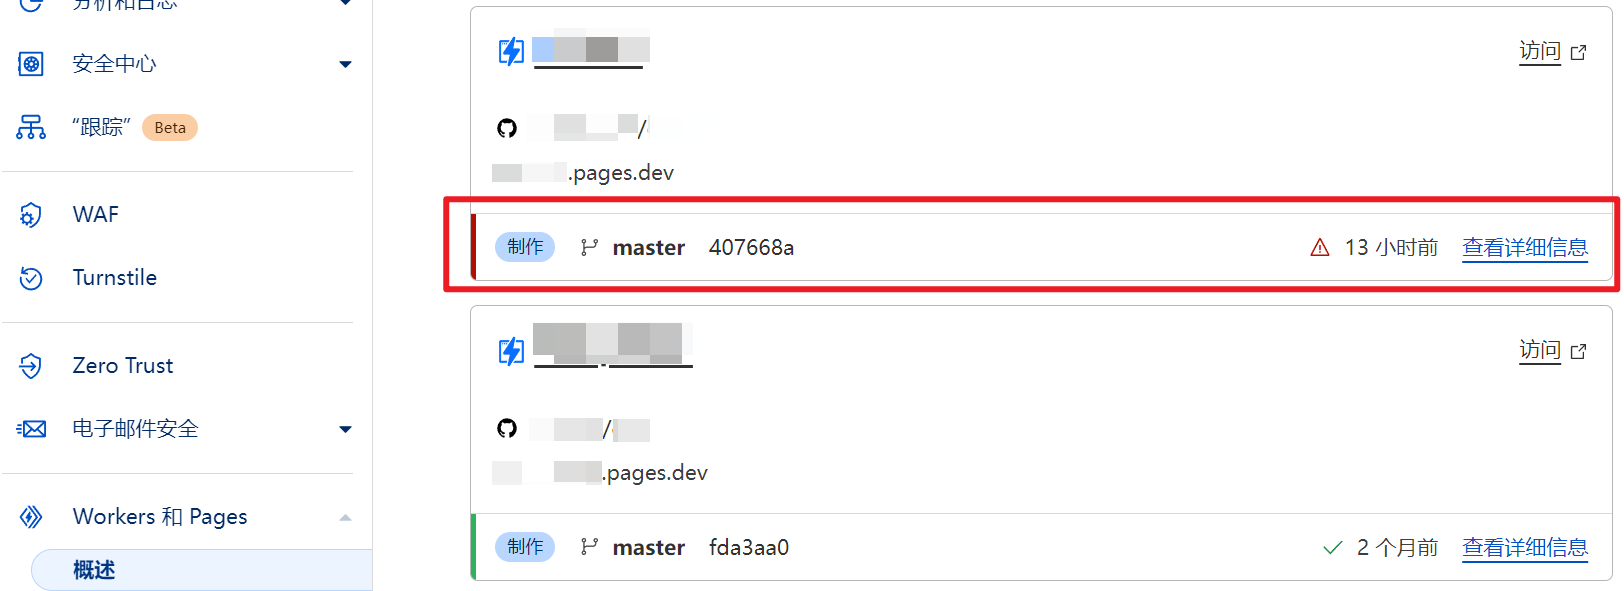
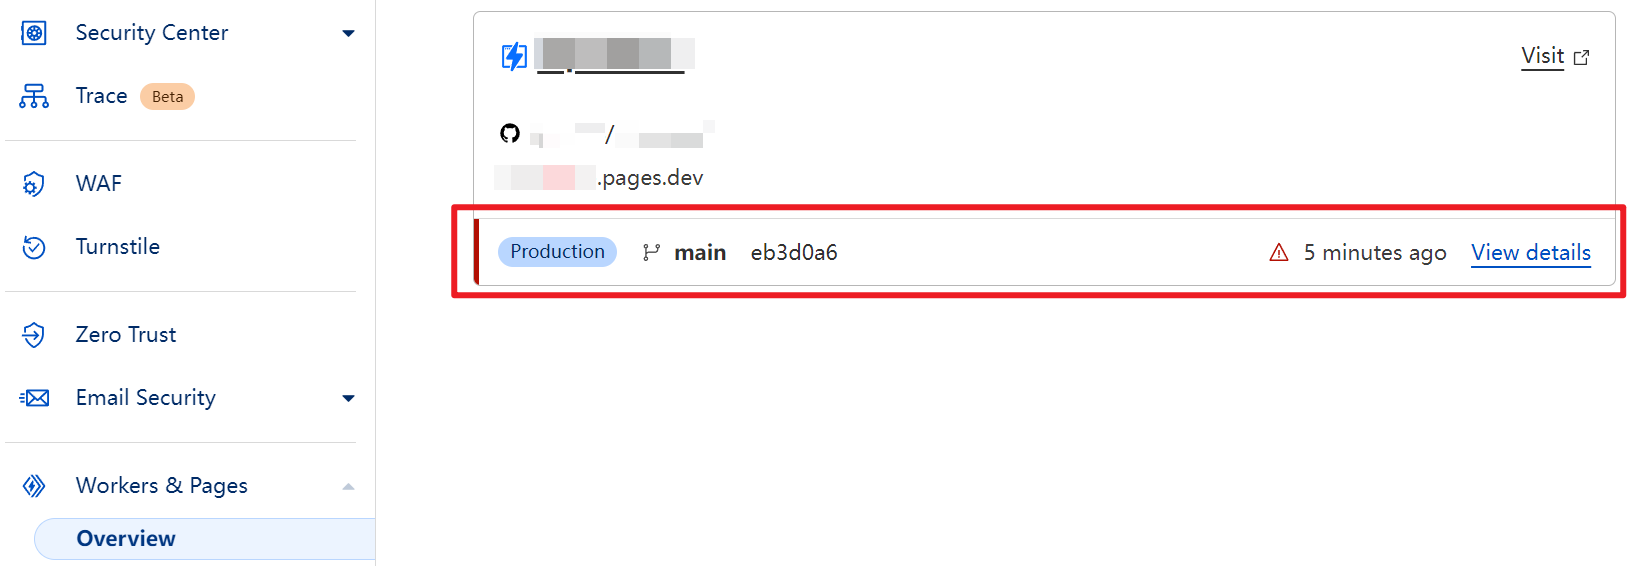
1

diff --git a/site/mkdocs_guide/mkdocs_guide/index.html b/site/mkdocs_guide/mkdocs_guide/index.html
@@ -1326,13 +1326,13 @@
 <p>&emsp;&emsp;有些时候，GitHub仓库被更新后，Cloudflare自动更新网页会出现失败的情况。此时，只需登录Cloudflare账户，在图1-11所示的界面找到部署失败的Cloudflare Pages工程，如图1-18所示。</p>
 <p><center><img src="../assets/1-18.png" width = 100%></center>
 <center>图1-18 登录Cloudflare，找到部署失败的工程</center></p>
-<p>&emsp;&emsp;点击进入Cloudflare Pages工程页面，再点击“查看详细信息”，如图1-19所示。</p>
+<p>&emsp;&emsp;点击进入Cloudflare Pages工程页面，再点击“View details”，如图1-19所示。</p>
 <p><center><img src="../assets/1-19.png" width = 100%></center>
 <center>图1-19 点击查看Cloudflare Page的部署详细信息</center></p>
-<p>&emsp;&emsp;最后，点击“构建日志”下方的“重试部署”按钮即可，如图1-20所示。</p>
+<p>&emsp;&emsp;最后，点击“Build log”下方的“Retry deployment”按钮即可，如图1-20所示。</p>
 <p><center><img src="../assets/1-20.png" width = 100%></center>
 <center>图1-20 重试部署</center></p>
-<p>&emsp;&emsp;一般重试部署后即可成功，若还是失败，则再次点击“重试部署”按钮。若多次重试仍然失败，则根据构建日志中的报错提示进行纠错，或尝试重新构建Cloudflare Pages工程。</p>
+<p>&emsp;&emsp;一般重试部署后即可成功，若还是失败，则再次点击重试部署按钮。若多次重试仍然失败，则根据日志中的报错提示进行纠错，或尝试重新构建Cloudflare Pages工程。</p>
 </div>
 <h3 id="45">4.5 多个部署的回滚或删除</h3>
 <p>&emsp;&emsp;每次更新GitHub仓库，或手动点击部署按钮，都会在Cloudflare Pages工程下生成一个对应的部署，如图1-21所示。</p>

diff --git a/docs/mkdocs_guide/mkdocs_guide.md b/docs/mkdocs_guide/mkdocs_guide.md
@@ -210,17 +210,17 @@
     <center><img src="../assets/1-18.png" width = 100%></center>
     <center>图1-18 登录Cloudflare，找到部署失败的工程</center>
     
-    &emsp;&emsp;点击进入Cloudflare Pages工程页面，再点击“查看详细信息”，如图1-19所示。
+    &emsp;&emsp;点击进入Cloudflare Pages工程页面，再点击“View details”，如图1-19所示。
 
     <center><img src="../assets/1-19.png" width = 100%></center>
     <center>图1-19 点击查看Cloudflare Page的部署详细信息</center>
 
-    &emsp;&emsp;最后，点击“构建日志”下方的“重试部署”按钮即可，如图1-20所示。
+    &emsp;&emsp;最后，点击“Build log”下方的“Retry deployment”按钮即可，如图1-20所示。
 
     <center><img src="../assets/1-20.png" width = 100%></center>
     <center>图1-20 重试部署</center>
 
-    &emsp;&emsp;一般重试部署后即可成功，若还是失败，则再次点击“重试部署”按钮。若多次重试仍然失败，则根据构建日志中的报错提示进行纠错，或尝试重新构建Cloudflare Pages工程。
+    &emsp;&emsp;一般重试部署后即可成功，若还是失败，则再次点击重试部署按钮。若多次重试仍然失败，则根据日志中的报错提示进行纠错，或尝试重新构建Cloudflare Pages工程。
 
 ### 4.5 多个部署的回滚或删除
 
